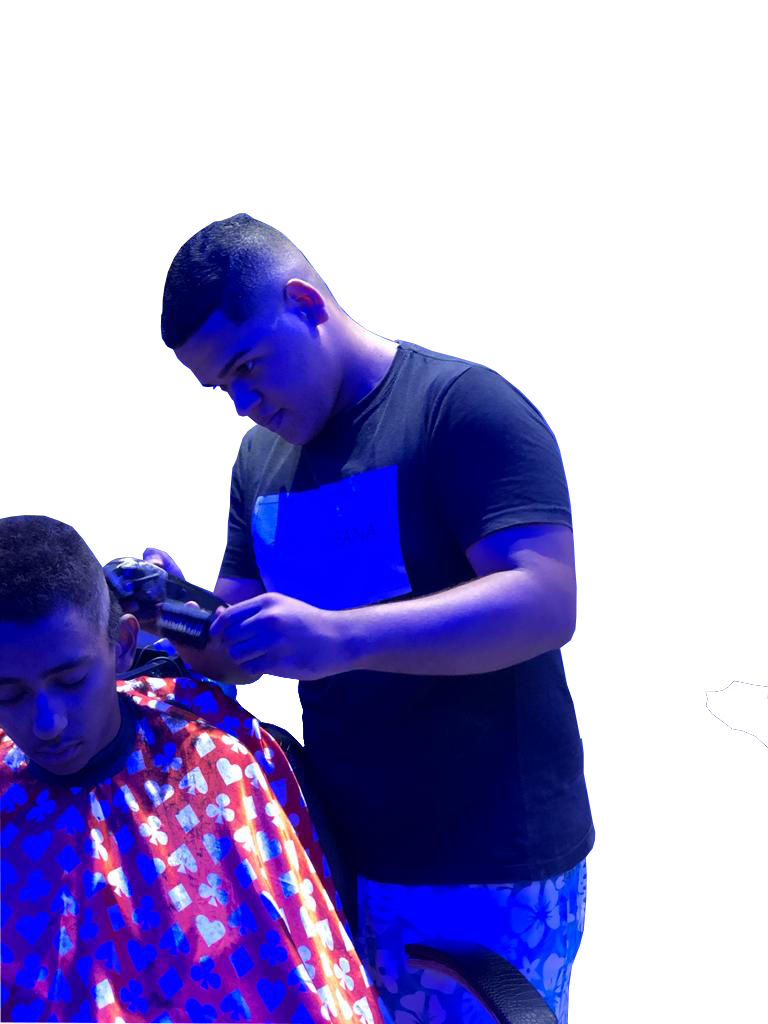
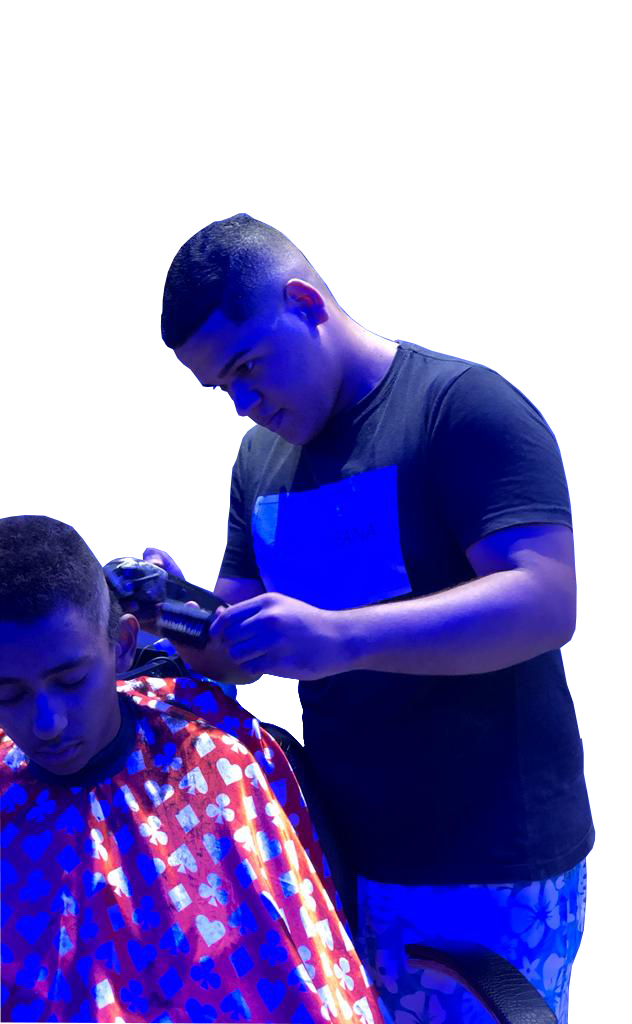
22323

diff --git a/pitiza/style.css b/pitiza/style.css
@@ -77,11 +77,11 @@ header a img {
   flex-direction: row;
 }
 .hero { 
-  width: 40%;
+  width: 30%;
   height: 100%;
 }
 .hero img { 
-  width:90%;
+  width:100%;
   height:100%
 }
 
@@ -187,7 +187,7 @@ header a img {
   }
   #conteudo-1 { 
     background-color: rgb(4 0 46 / 97%);    
-    width: 85%;
+    width: 95%;
     border-radius:10px;
     margin: auto;
     height: 1250px;
@@ -202,7 +202,7 @@ header a img {
   .hero img { 
     width:100%;
     height:100%;
-    margin-left:0px;
+    margin-left:10px;
 
   }
   
@@ -230,7 +230,7 @@ header a img {
     text-align: center; 
   }
   .direito .botao { 
-    width:300px;
+    width:350px;
     height: 60px;
     font-size: 1.4rem;
     font-family: 'Aboreto', cursive;  
